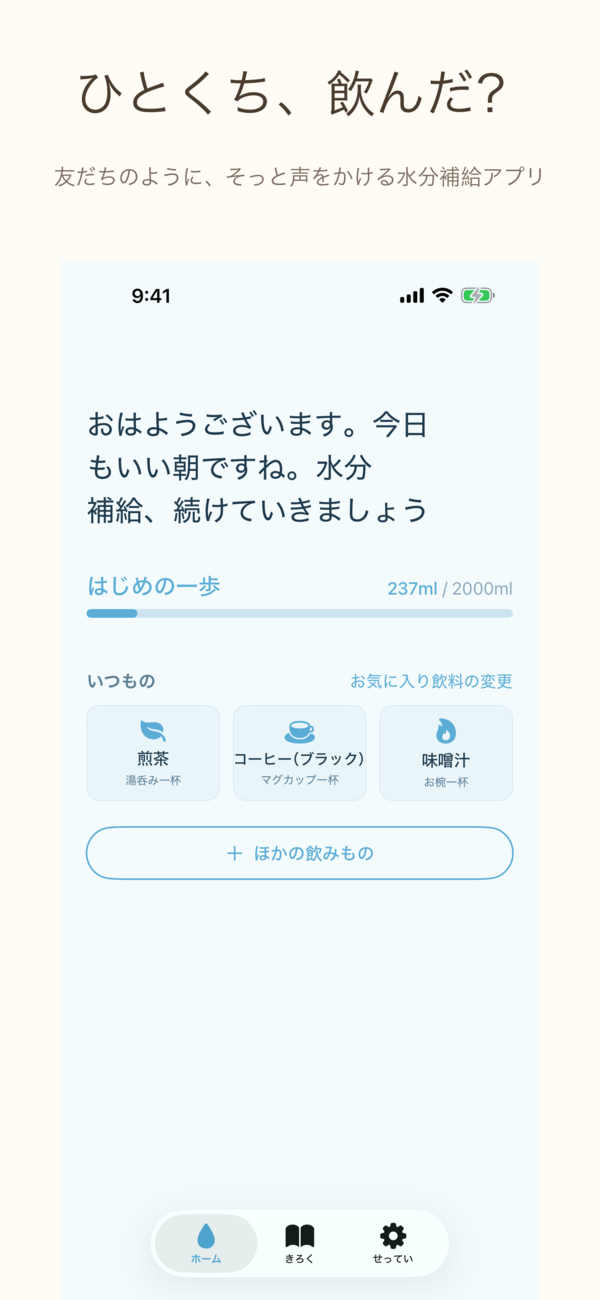
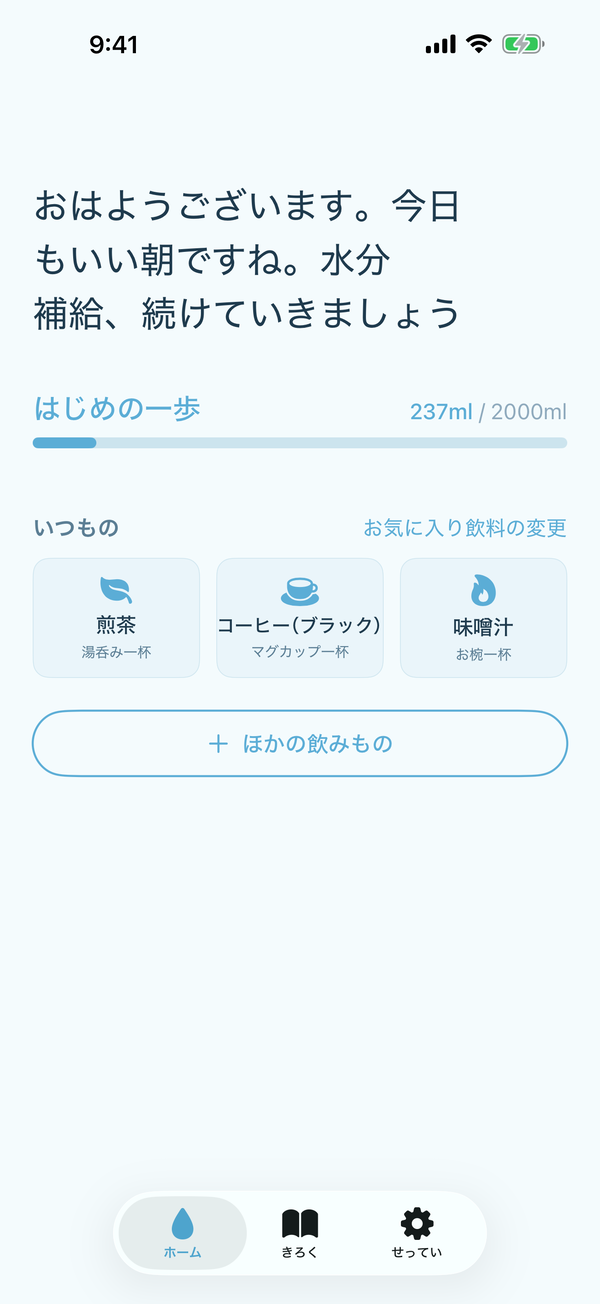
fix(lp): align brand assets with water-blue theme and remove duplicate captions
- A: regenerate favicon/apple-touch-icon/header app-icon from new water-blue AppIcon
- B: migrate hardcoded brown rgba in .site-header backdrop to v5 palette
- C: replace App Store-baked screenshots with raw 600x1304 src/, drop duplicate H3 captions

diff --git a/index.html b/index.html
@@ -258,7 +258,7 @@
             <div class="screenshot-frame">
               <img src="./images/screenshots/ss-01-record-ja.png"
                    alt="ホーム画面。お気に入りの飲みもの三つ（煎茶・コーヒー・味噌汁）をワンタップで記録できる。"
-                   width="600" height="1300" loading="lazy">
+                   width="600" height="1304" loading="lazy">
             </div>
             <h3>一杯ごとに、そっと記録</h3>
             <p>お気に入りの飲みものをワンタップ。今日の進捗が、そっと積みあがっていきます。</p>
@@ -267,7 +267,7 @@
             <div class="screenshot-frame">
               <img src="./images/screenshots/ss-02-weekly-ja.png"
                    alt="週次サマリ画面。一週間の水分摂取量がひと目でわかるグラフ表示。"
-                   width="600" height="1300" loading="lazy">
+                   width="600" height="1304" loading="lazy">
             </div>
             <h3>一週間が、ひと目でわかる</h3>
             <p>日々のひとくちが、やさしいグラフに。責めずに、ただ流れを見せてくれます。</p>
@@ -276,7 +276,7 @@
             <div class="screenshot-frame">
               <img src="./images/screenshots/ss-03-theme-ja.png"
                    alt="テーマ選択画面。水色・ほうじ茶・桜・海・森・夕焼け・夜の7種類から選べる。"
-                   width="600" height="1300" loading="lazy">
+                   width="600" height="1304" loading="lazy">
             </div>
             <h3>気分に合わせて、色を選ぶ</h3>
             <p>水色のほか、ほうじ茶・桜・海・森・夕焼け・夜。その日の気分で、静かに切り替え。</p>

diff --git a/index.en.html b/index.en.html
@@ -238,7 +238,7 @@
             <div class="screenshot-frame">
               <img src="./images/screenshots/ss-01-record-en.png"
                    alt="Home screen. Three favourite drinks (green tea, coffee, miso soup) logged in one tap."
-                   width="600" height="1300" loading="lazy">
+                   width="600" height="1304" loading="lazy">
             </div>
             <h3>Log a sip in one tap</h3>
             <p>Your favourites, right at hand. Each sip quietly adds to today's gentle progress.</p>
@@ -247,7 +247,7 @@
             <div class="screenshot-frame">
               <img src="./images/screenshots/ss-02-weekly-en.png"
                    alt="Weekly summary screen. A clear graph shows a week of hydration at a glance."
-                   width="600" height="1300" loading="lazy">
+                   width="600" height="1304" loading="lazy">
             </div>
             <h3>A week, at a glance</h3>
             <p>Your sips become a gentle graph. No scolding — just the flow, visible and calm.</p>
@@ -256,7 +256,7 @@
             <div class="screenshot-frame">
               <img src="./images/screenshots/ss-03-theme-en.png"
                    alt="Theme picker screen. Seven themes: Water, Houjicha, Sakura, Ocean, Forest, Sunset, Night."
-                   width="600" height="1300" loading="lazy">
+                   width="600" height="1304" loading="lazy">
             </div>
             <h3>Choose a colour for the mood</h3>
             <p>Water by default, with Houjicha, Sakura, Ocean, Forest, Sunset, Night. Quietly switch when you like.</p>

diff --git a/css/styles.css b/css/styles.css
@@ -244,13 +244,13 @@ small, figcaption, .caption {
   position: sticky;
   top: 0;
   z-index: 50;
-  background-color: rgba(245, 243, 237, 0.88);
+  background-color: rgba(244, 251, 253, 0.88); /* matches --bg-primary */
   -webkit-backdrop-filter: saturate(180%) blur(8px);
   backdrop-filter: saturate(180%) blur(8px);
   border-bottom: 1px solid var(--border-default);
 }
 @media (prefers-color-scheme: dark) {
-  .site-header { background-color: rgba(31, 29, 26, 0.88); }
+  .site-header { background-color: rgba(18, 28, 36, 0.88); /* matches dark --bg-primary */ }
 }
 .site-header nav {
   display: flex;
